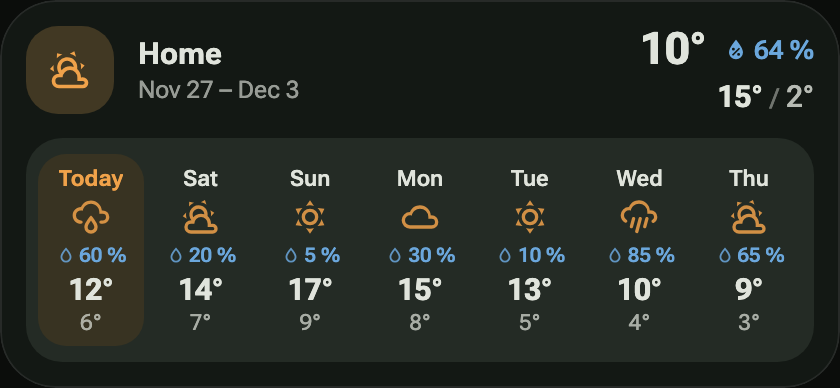
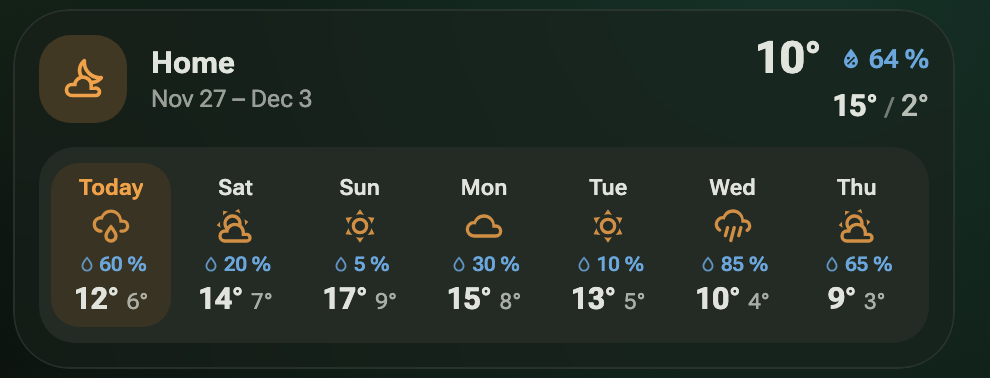
Weather row layout: high and low on one line
The day's high and low sit side by side under the rain chance, which
saves a line; on cards narrower than 340px they stack again.

diff --git a/ha-m3-slim-weekly-weather/src/m3-weather-card-week.ts b/ha-m3-slim-weekly-weather/src/m3-weather-card-week.ts
@@ -528,8 +528,10 @@ export class M3WeatherCardWeek extends TemplatedCard(LitElement) implements Love
                     </span>
                   `
                 : nothing}
-              <span class="strip-high">${this._hasNumber(high) ? `${this._formatNumber(high)}°` : "–"}</span>
-              <span class="strip-low">${this._hasNumber(low) ? `${this._formatNumber(low)}°` : "–"}</span>
+              <span class="strip-temps">
+                <span class="strip-high">${this._hasNumber(high) ? `${this._formatNumber(high)}°` : "–"}</span>
+                <span class="strip-low">${this._hasNumber(low) ? `${this._formatNumber(low)}°` : "–"}</span>
+              </span>
             </div>
           `;
         })}
@@ -750,6 +752,14 @@ export class M3WeatherCardWeek extends TemplatedCard(LitElement) implements Love
       .strip-pop ha-icon {
         --mdc-icon-size: 11px;
         opacity: 0.85;
+      }
+
+      /* high and low on one line; on a narrow card they stack again */
+      .strip-temps {
+        display: flex;
+        align-items: baseline;
+        gap: 4px;
+        white-space: nowrap;
       }
 
       .strip-high {
@@ -992,6 +1002,11 @@ export class M3WeatherCardWeek extends TemplatedCard(LitElement) implements Love
         }
         .strip-pop {
           display: none;
+        }
+        .strip-temps {
+          flex-direction: column;
+          align-items: center;
+          gap: 3px;
         }
       }
 
